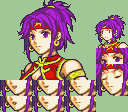
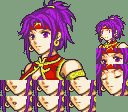
fix replace portrait background

diff --git a/server/portrait-processing/replace-background-color-in-portraits.ts b/server/portrait-processing/replace-background-color-in-portraits.ts
@@ -5,23 +5,32 @@ import getAllPortraitFileNames from "@/portrait-processing/get-all-portrait-path
 export default async function replaceBackgroundColorInPortraits(): Promise<void> {
   const portraitsDir = getPathWithinServer("assets/portraits");
   const fileNames = getAllPortraitFileNames();
+
   for (const fileName of fileNames) {
     const filePath = `${portraitsDir}/${fileName}`;
     const imageData = await Deno.readFile(filePath);
     const img = await Image.decode(imageData);
+
+    if (img.width === 0 || img.height === 0) {
+      console.warn(`Skipping empty image: ${fileName}`);
+      continue;
+    }
+
+    // Get the color of the top-left pixel at (1,1) due to 1-based indexing in imagescript
+    const referencePixel = img.getPixelAt(1, 1);
+
+    // New color to replace the background
+    const newPixel = (128 << 24) | (160 << 16) | (128 << 8) | 255;
+
+    // Iterate over every pixel and replace matching colors
     for (let x = 1; x <= img.width; x++) {
       for (let y = 1; y <= img.height; y++) {
-        const pixel = img.getPixelAt(x, y);
-        const r = (pixel >> 24) & 0xff;
-        const g = (pixel >> 16) & 0xff;
-        const b = (pixel >> 8) & 0xff;
-        const a = pixel & 0xff;
-        if (r === 160 && g === 200 && b === 152 && a === 255) {
-          const newPixel = (128 << 24) | (160 << 16) | (128 << 8) | 255;
+        if (img.getPixelAt(x, y) === referencePixel) {
           img.setPixelAt(x, y, newPixel);
         }
       }
     }
+
     const encoded = await img.encode();
     await Deno.writeFile(filePath, encoded);
     console.log(`Processed: ${fileName}`);
